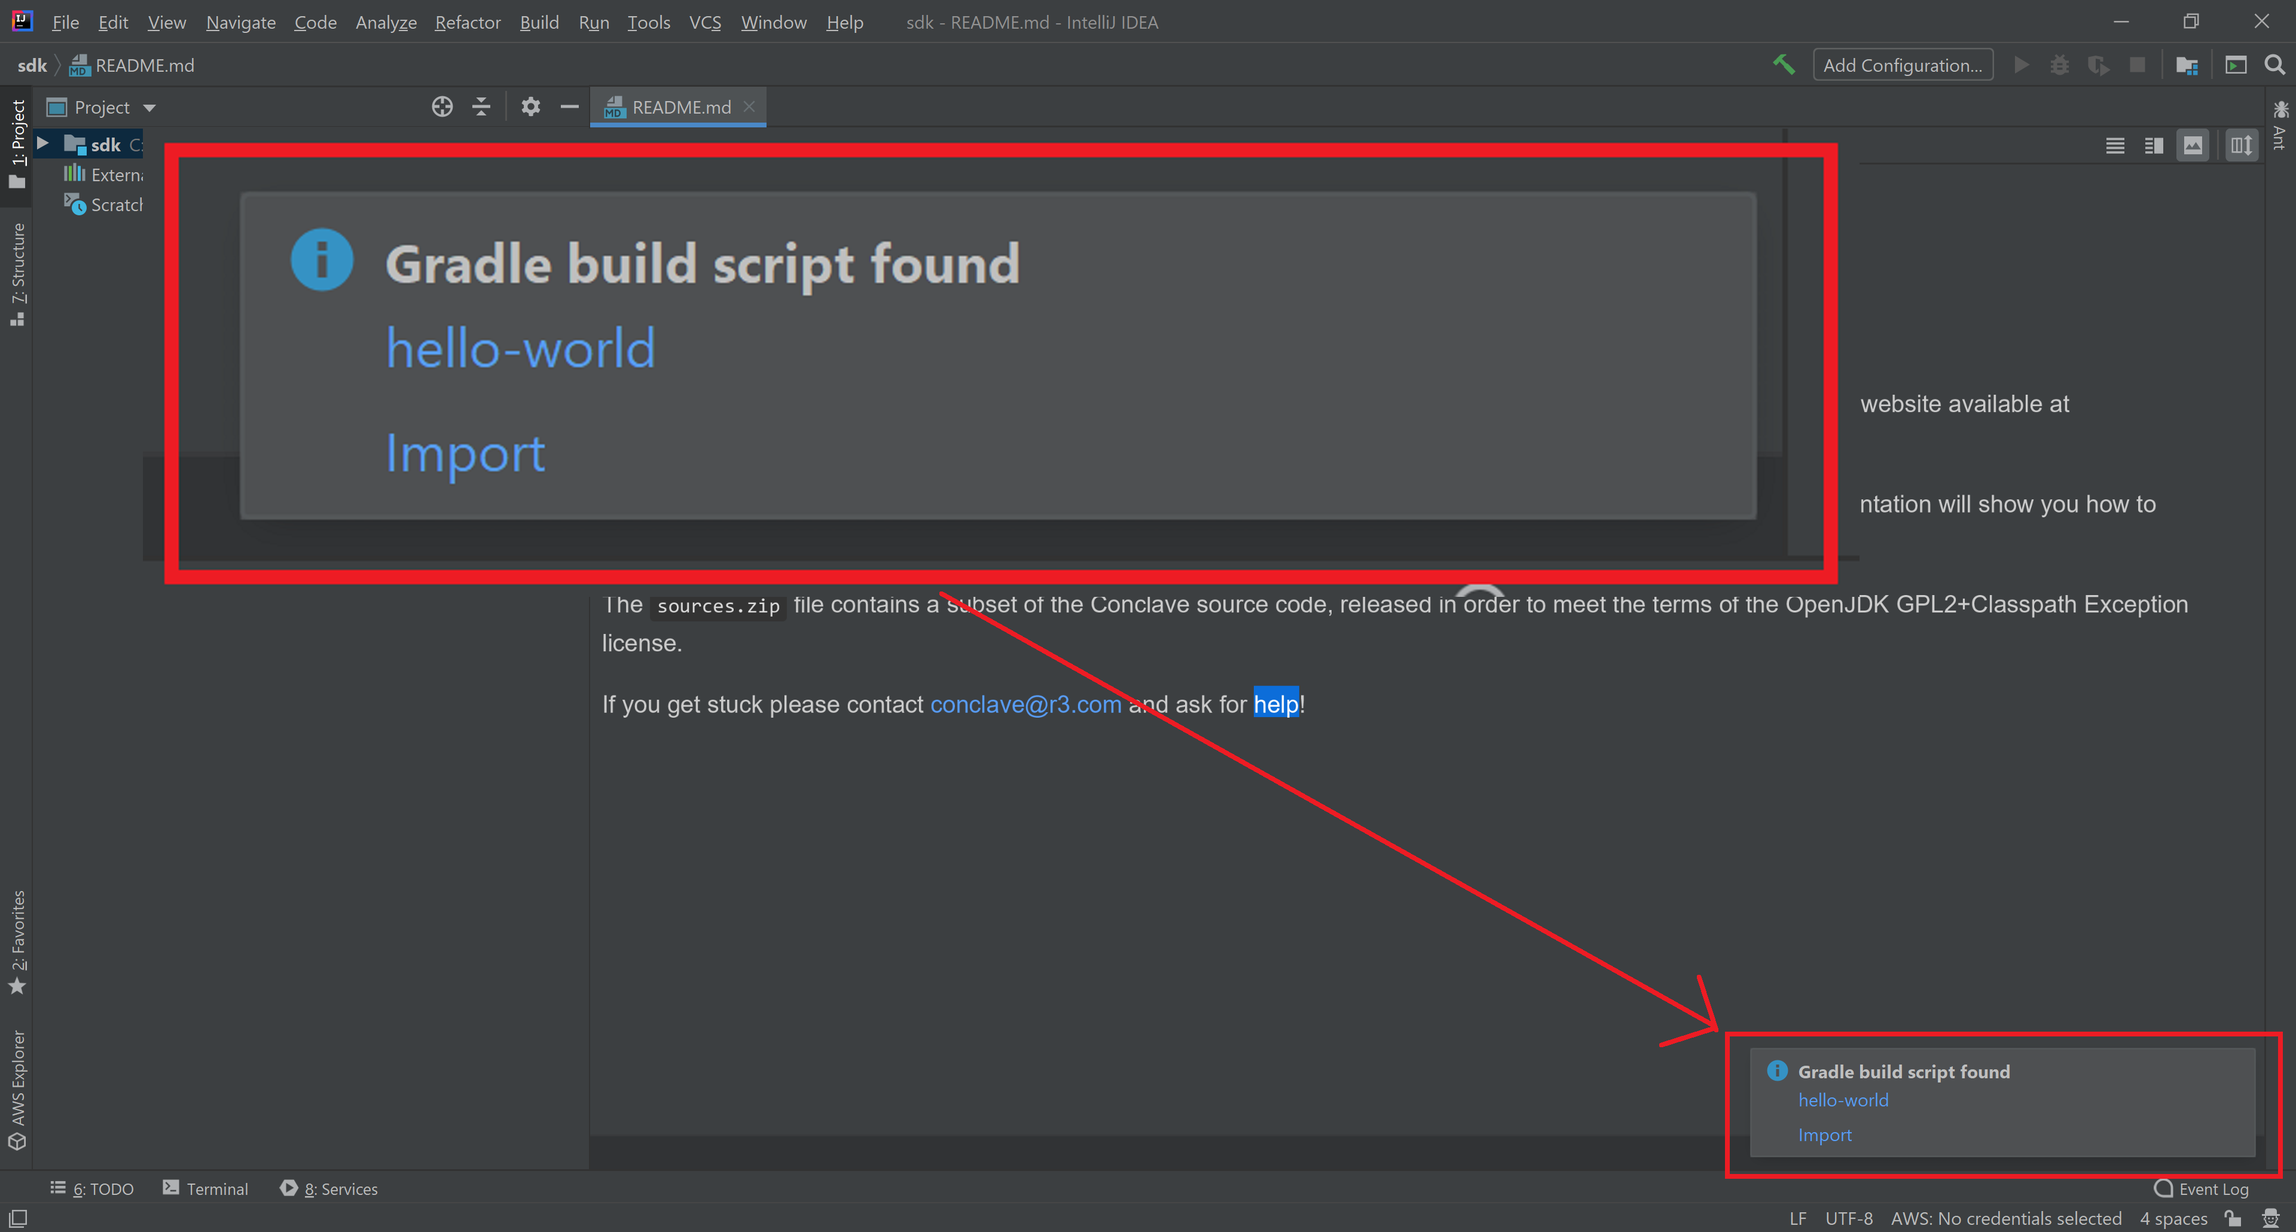
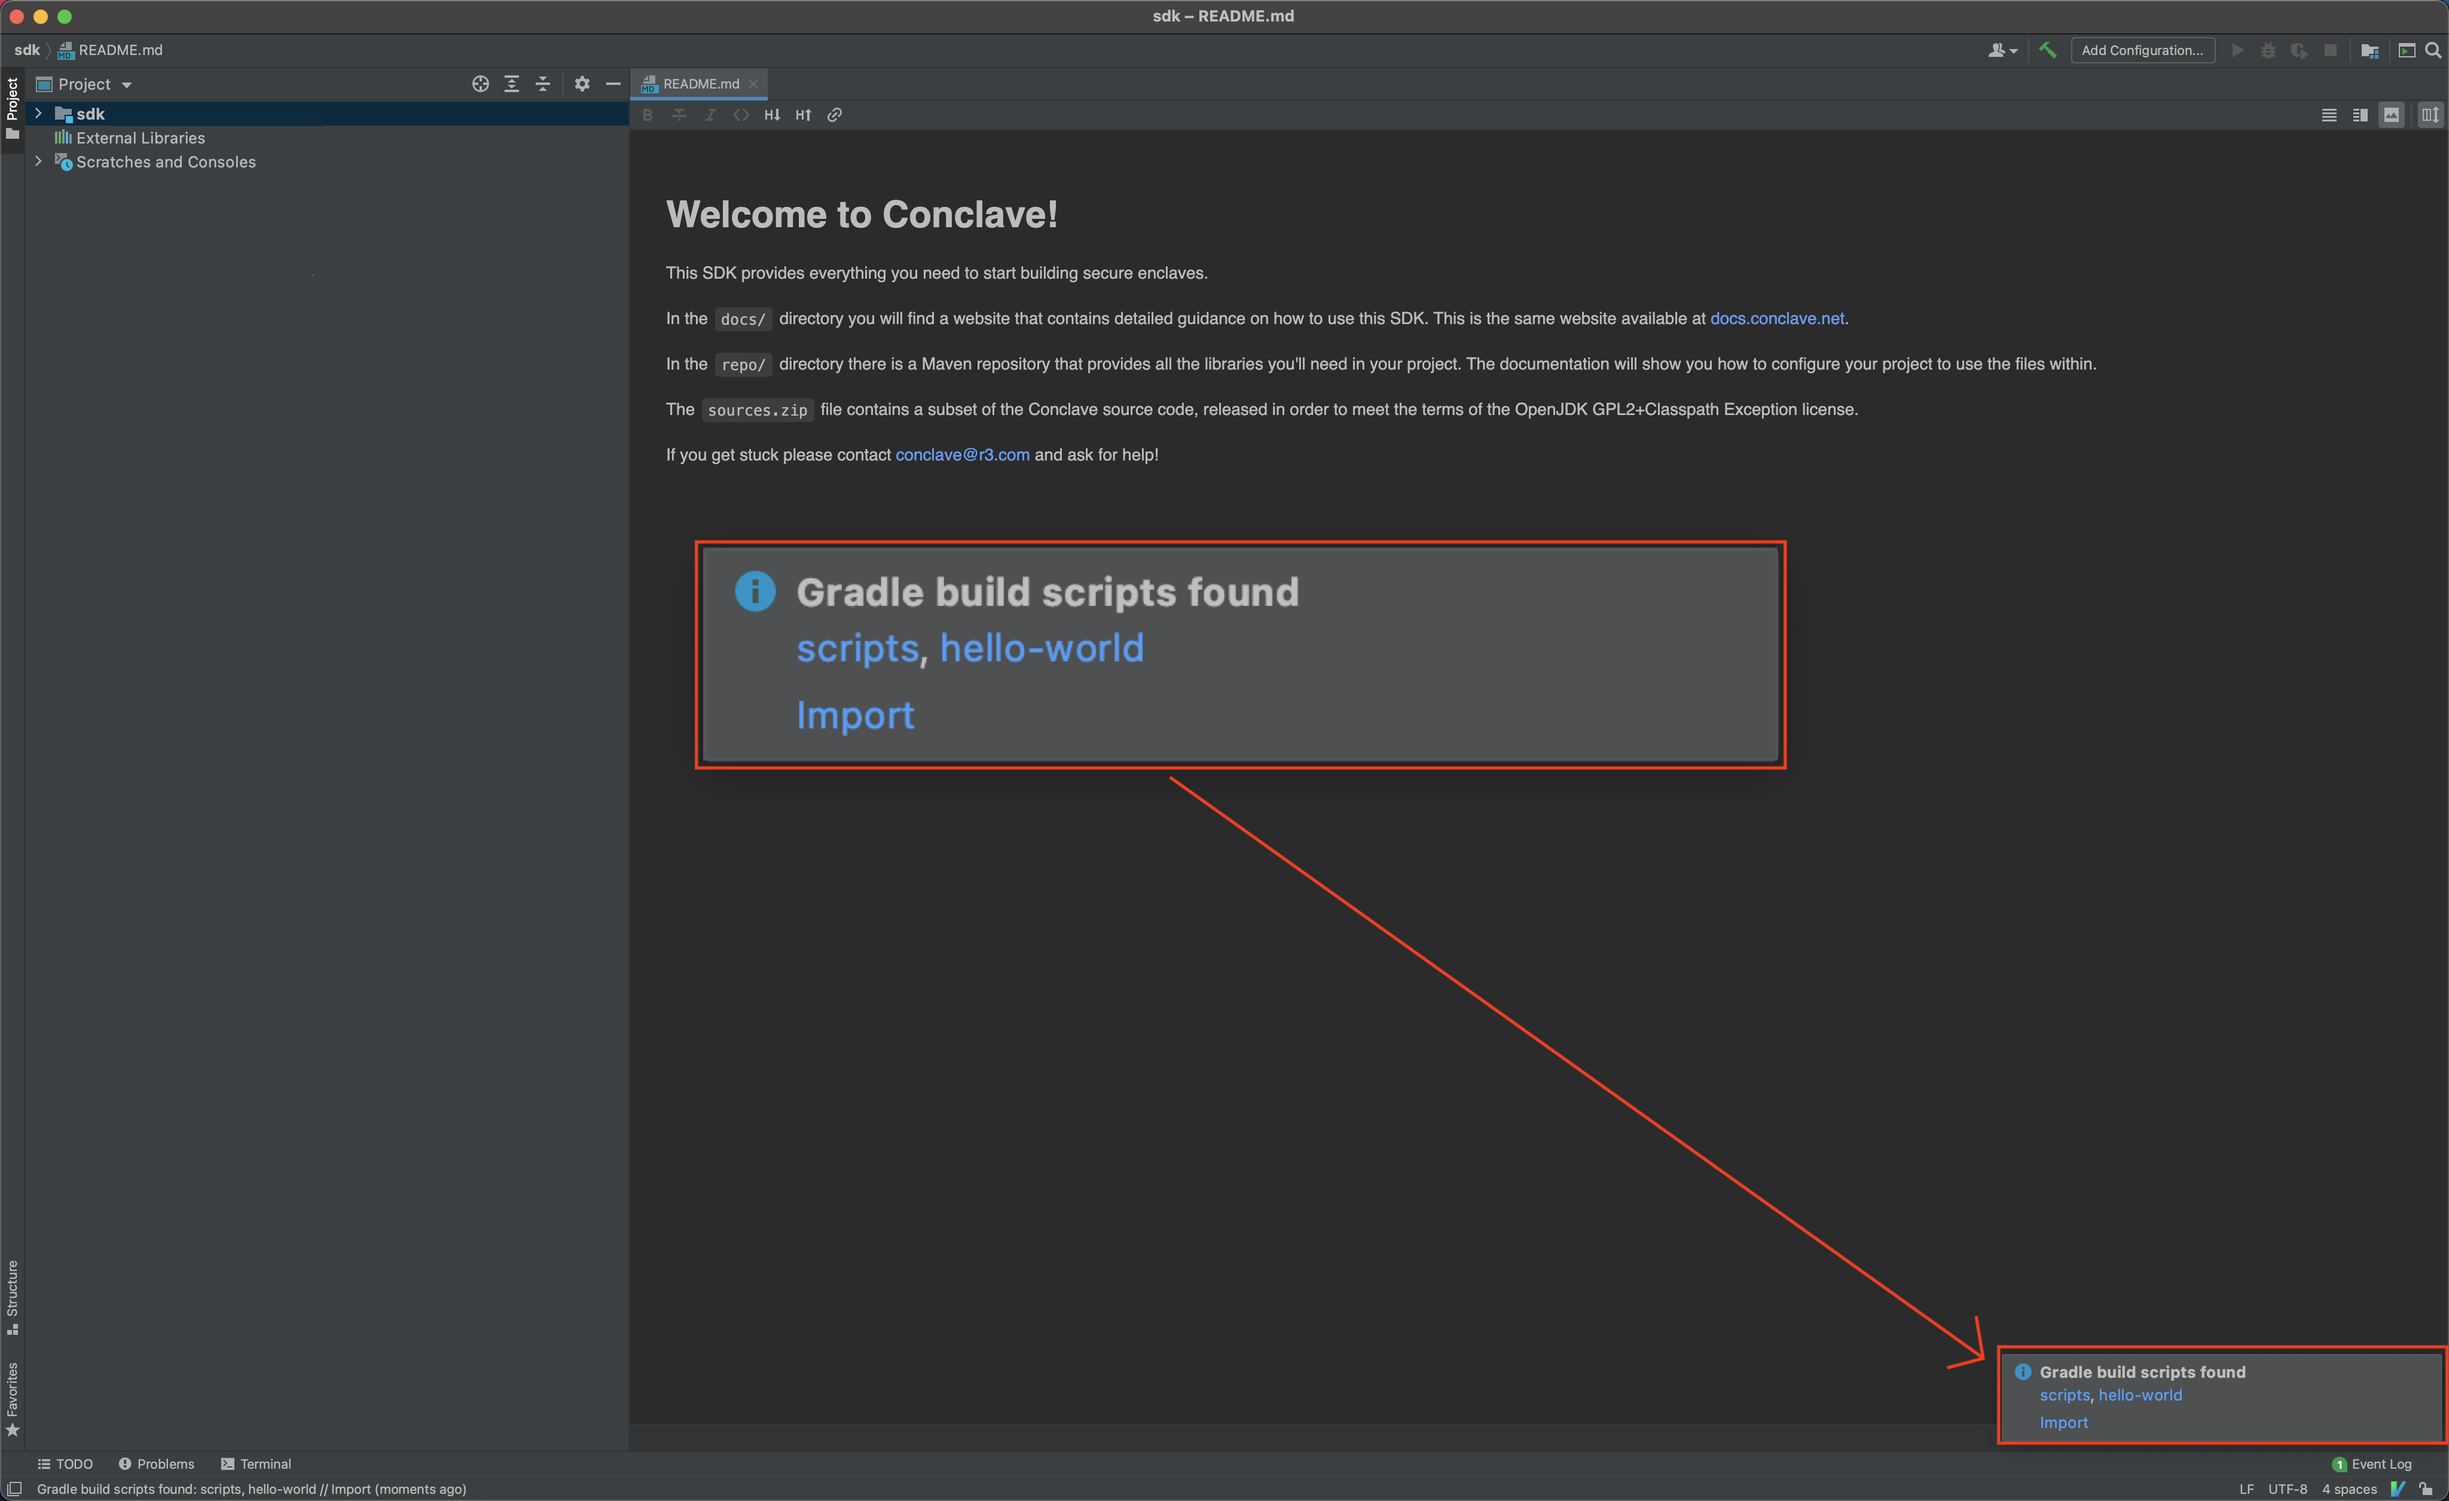
More pre-1.0 docs updates

diff --git a/docs/sdk-extras/hello-world/client/src/main/java/com/r3/conclave/sample/client/Client.java b/docs/sdk-extras/hello-world/client/src/main/java/com/r3/conclave/sample/client/Client.java
@@ -23,7 +23,7 @@ public class Client {
         // as a basis for your own apps.
 
         if (args.length == 0) {
-            System.err.println("Please pass the string to reverse on the command line");
+            System.err.println("Please pass the string to reverse on the command line using --args=\"String to Reverse\"");
             return;
         }
         String toReverse = String.join(" ", args);

diff --git a/docs/docs/tutorial.md b/docs/docs/tutorial.md
@@ -68,11 +68,11 @@ of course get no hardware protections. To run against real SGX hardware you must
 
 ![Look at the SDK's top level directory](./images/import-sdk.png) 
  
-**Step 3:** Click "import" when notified that there's a Gradle build script
+**Step 3:** When notified that there's a Gradle build script, click "hello-world" to import the project.
 
 ![Import Gradle script](./images/gradle-import.png) 
  
-**Step 4:** If on Linux or Windows, double-click on `:host:assemble`. This is the second 
+**Step 4:** Double-click on `:host:assemble`. This is the second
 highlighted `assemble` in the screenshot below. Voila! :smile: You have just built your first enclave.
   
 ![Double-click on `:host:assemble`](./images/gradle-tasks.png)
